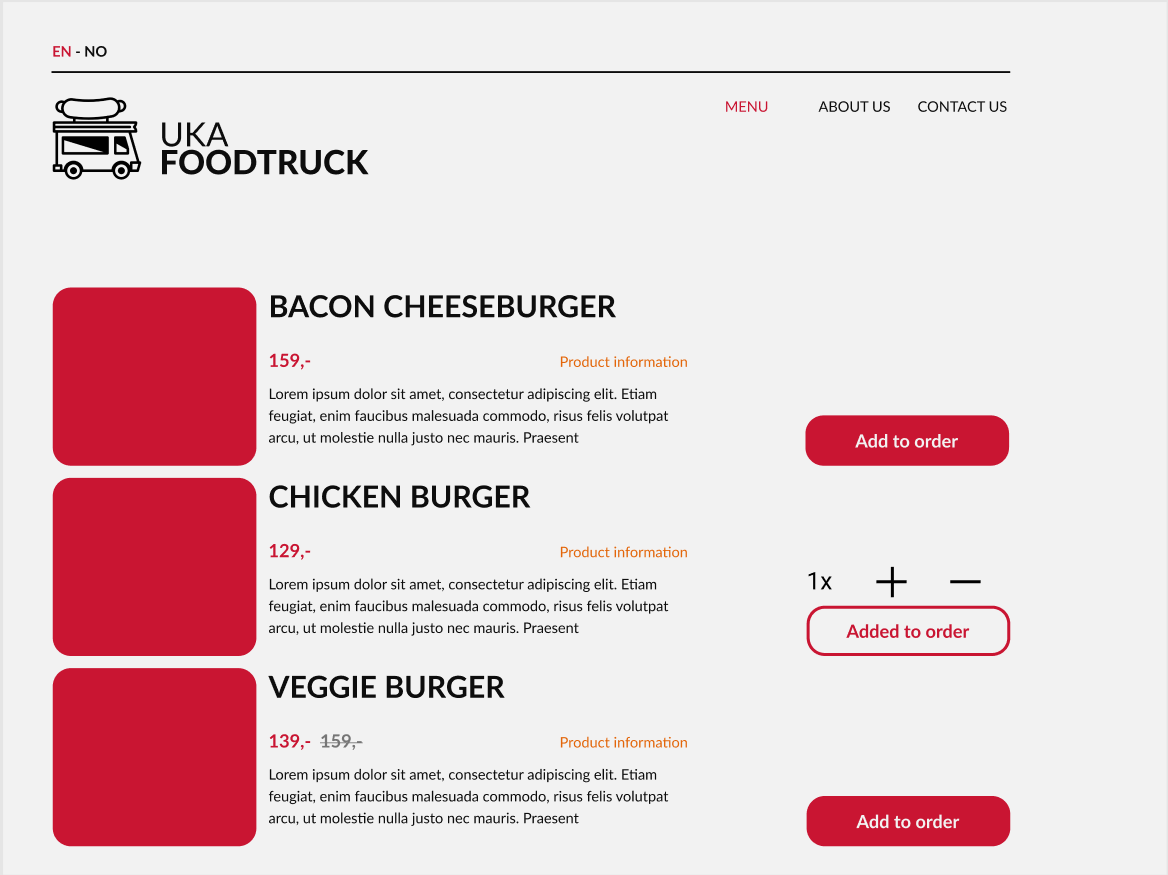
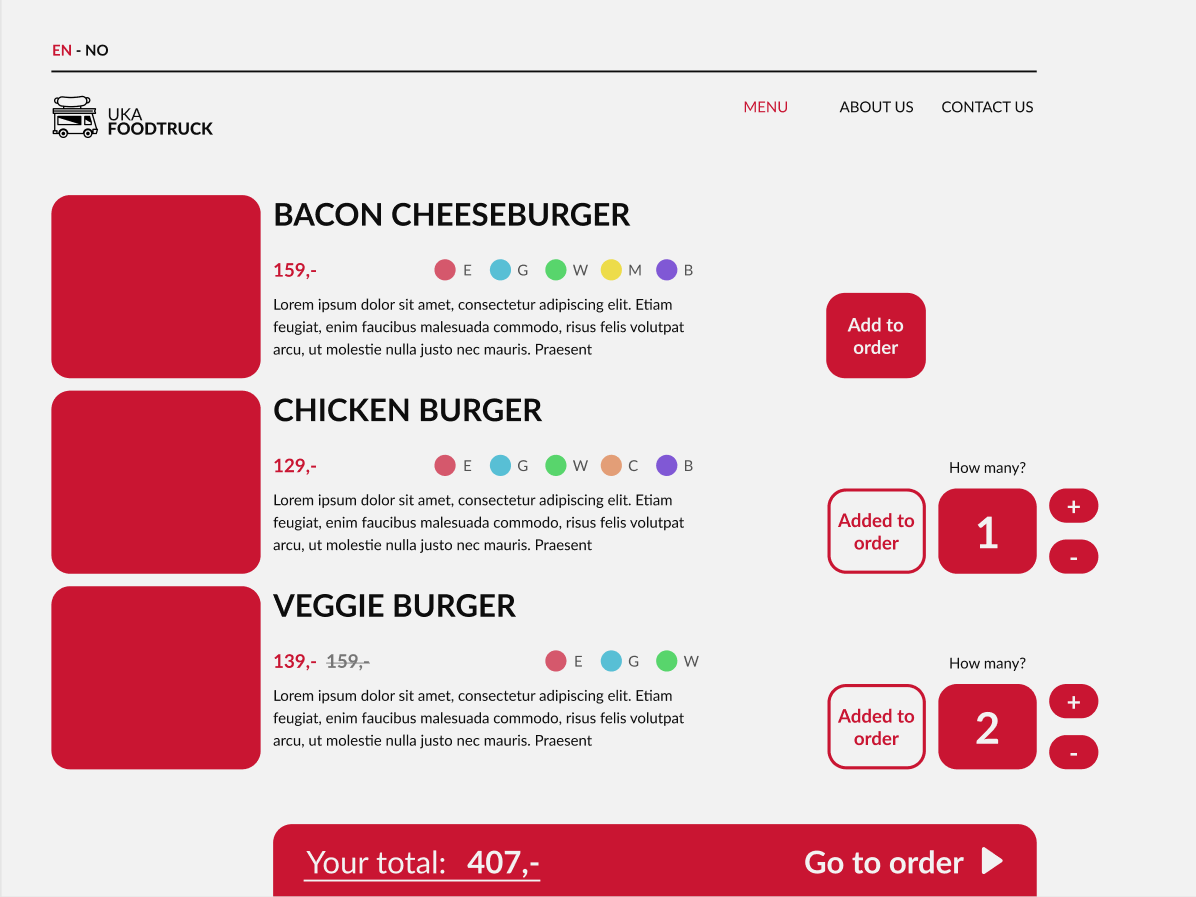
Add more information to order confirmation, add receipt page and images to content

Changed region(s): [[0.0308, 0.0309, 0.8938, 1.0], [0.6781, 0.4629, 0.9247, 0.864], [0.6781, 0.3086, 0.8014, 0.432]]

diff --git a/Documents/P2_design_8.html b/Documents/P2_design_8.html
@@ -47,11 +47,11 @@
         menu site as it is a site to confirm your order.
     </p>
     <p>
-        This structure makes sense for our website because we have chosen to focus on an easy navigation. 
+        This structure makes sense for our website because we have chosen to focus on an easy navigation.
         We think the ability to reach every page with one click fits our users because they, as mention before, might be
-        a bit intoxicated, and some might click on the wrong buttons. 
+        a bit intoxicated, and some might click on the wrong buttons.
     </p>
-    <img src="../images/Navigation structure.png" alt="Navigation structure" />
+    <img src="../images/Navigation structure.png" alt="Navigation structure"/>
 </section>
 
 <section>
@@ -71,74 +71,128 @@
             <br><br>
             To the right of all this will be a dynamic display showing if the food truck is currently open or not. This
             will change given the time of day, comparing the current time to the opening hours. Finally, a highlight
-            from the menu will be displayed with a small picture and its description. Clicking this section will take the
-            user over to the menu page.
+            from the menu will be displayed with a small picture and its description. Clicking this section will take
+            the user over to the menu page.
         </p>
+        <img src="../images/Home.png" alt="Home page"/>
     </div>
     <div>
         <h3>Menu</h3>
         <p>
             This page will contain a list of all the items on the menu, what they are, what they look like, what they
             contain and what they cost. The page will also contain buttons for each item to add or remove them from your
-            order. This page fulfills the goal of allowing users to place orders through the website.
+            order and show how many you have selected. This page fulfills the goal of allowing users to place orders
+            through the website.
             <br><br>
             The unique design decisions for this page are going to be in regard to how we present the menu items. As
             shown on the image below, we plan on having a small image for each item, with the name, price, a short
-            description and a hypertext to click for a modal with more details about the product to the side of the
-            image. On lager devices the option to add and remove items from the order will be on the right-hand side of
-            the item details, while on smaller devices this will be below.
+            description and a list of allergy risks for this item to the side of the image. On lager devices the option
+            to add and remove items from the order will be on the right-hand side of the item details, while on smaller
+            devices this will be below.
         </p>
         <img src="../images/Menu.png" alt="Menu page"/>
     </div>
     <div>
         <h3>Order confirmation</h3>
         <p>
-            This page will contain a simplified list of the selected items, the amount and price. The page will also
-            contain buttons for each item to add or remove them from your order as well as a field to add a comment to
-            the order.
+            This page will contain a simplified list of the selected items, with the selected amount and price. The page
+            will also contain buttons for each item to increase or decrease the amount of them for your order as well as
+            a field to insert your name and potentially add a comment to the order.
             <br><br>
-
+            As shown on the image the simplified list will contain a smaller image, the name of the item, allergies and
+            price. For a cohesive design we will use the same buttons to increase or decrease the amount of each item.
+            The two textfields will be fairly basic, with a short description for the input we want in each field and
+            the field for the name being smaller than for the comment.
         </p>
-        <img src="../images/Order%20confirmation.png" alt="Menu page"/>
+        <img src="../images/Order%20confirmation.png" alt="Order confirmation"/>
+    </div>
+    <div>
+        <h3>Receipt</h3>
+        <p>
+            This page will contain the same simplified list of the selected items, however the buttons to increase or
+            decrease the amount of each item will of course not be present as this page shows the order that was
+            completed. The comment sent on the order confirmation page will also be shown.
+        </p>
+        <img src="../images/Receipt.png" alt="Receipt"/>
     </div>
     <div>
         <h3>About Us</h3>
         <p>
-            The about page will contain information about the Food Truck of UKA-21. This information will be displayed in a
+            The about page will contain information about the Food Truck of UKA-21. This information will be displayed
+            in a
             reader friendly manner, with multiple paragraphs and padding on the sides. Questions to the side of the
-            paragraphs will indicate what information is given. Pictures displaying the food truck and its employees will be
-            displayed side by side in a small format as seen on the figure below. When the user clicks on the images the image
+            paragraphs will indicate what information is given. Pictures displaying the food truck and its employees
+            will be
+            displayed side by side in a small format as seen on the figure below. When the user clicks on the images the
+            image
             will become larger and take up most of the screen, dimming the rest of the page in the background.
         </p>
+        <img src="../images/About%20us.png" alt="About us page"/>
     </div>
     <div>
         <h3>Contact us</h3>
         <p>
-            The contact us page will contain two distinct parts. The first one is a form for giving feedback to the food truck.
-            Here, users will fill in their information and write what the feedback is about and finally their message. We will
+            The contact us page will contain two distinct parts. The first one is a form for giving feedback to the food
+            truck.
+            Here, users will fill in their information and write what the feedback is about and finally their message.
+            We will
             check that all the fields are filled out before the user then can submit the form.
             <br><br>
-            The second part is a map displaying the location of the food truck at a given scale. When the user clicks on the
-            map it will open a new tab and take them to the Google Maps page with the location selected for navigation. This will
+            The second part is a map displaying the location of the food truck at a given scale. When the user clicks on
+            the
+            map it will open a new tab and take them to the Google Maps page with the location selected for navigation.
+            This will
             make it easy for the user to get an instant location and a route to navigate to the food truck.
         </p>
+        <img src="../images/Contact%20us.png" alt="Contact us page"/>
     </div>
 </section>
 
 <section>
     <h2>Minimum Requirements</h2>
     <ul>
-        <li>Auto navbar/footer<ul><li>This will fill in the navbar and footer on every HTML page</li></ul></li>
-        <li>Check if FoodTruck is open<ul><li>This will display different images on the homepage by comparing the current to the
-            opening hours of the foodtruck</li></ul></li>
-        <li>Language function<ul><li>Will switch the language on the page between English and Norwegian</li></ul></li>
-        <li>Increase decrease menu item selection<ul><li>A simple counter to select the desired amount of a menu item</li></ul></li>
-        <li>Send order to confirm order page<ul><li>Here we will store the order in text code and include that in the url for the
-            confirm order page</li></ul></li>
-        <li>Read order on confirm order page<ul><li>Exstracts the text code from the url and displays the items that were selected</li></ul></li>
-        <li>Contact Us<ul><li>This function will check if the user has filled out all of the text fields, then display a confirmation
-            message and clear the fields.
-        </li></ul></li>
+        <li>Auto navbar/footer
+            <ul>
+                <li>This will fill in the navbar and footer on every HTML page</li>
+            </ul>
+        </li>
+        <li>Check if FoodTruck is open
+            <ul>
+                <li>This will display different images on the homepage by comparing the current to the
+                    opening hours of the foodtruck
+                </li>
+            </ul>
+        </li>
+        <li>Language function
+            <ul>
+                <li>Will switch the language on the page between English and Norwegian</li>
+            </ul>
+        </li>
+        <li>Increase decrease menu item selection
+            <ul>
+                <li>A simple counter to select the desired amount of a menu item</li>
+            </ul>
+        </li>
+        <li>Send order to confirm order page
+            <ul>
+                <li>Here we will store the order in text code and include that in the url for the
+                    confirm order page
+                </li>
+            </ul>
+        </li>
+        <li>Read order on confirm order page
+            <ul>
+                <li>Exstracts the text code from the url and displays the items that were selected</li>
+            </ul>
+        </li>
+        <li>Contact Us
+            <ul>
+                <li>This function will check if the user has filled out all of the text fields, then display a
+                    confirmation
+                    message and clear the fields.
+                </li>
+            </ul>
+        </li>
     </ul>
 </section>
 
@@ -149,6 +203,7 @@
         <li>homepage.html</li>
         <li>menu.html</li>
         <li>order.html</li>
+        <li>receipt.html</li>
         <li>about.html</li>
         <li>contact_us.html</li>
         <li>images/</li>
@@ -175,7 +230,7 @@
 
     <table>
         <tr>
-            <th> Filename/ function </th>
+            <th> Filename/ function</th>
             <th> Description</th>
             <th> In charge</th>
             <th> Deadline</th>
@@ -194,45 +249,52 @@
         </tr>
         <tr>
             <td> order.html</td>
-            <td> See description under content, order. </td>
+            <td> See description under content, order.</td>
+            <td></td>
+            <td></td>
+        </tr>
+        <tr>
+            <td> receipt.html</td>
+            <td> See description under content, receipt.</td>
             <td></td>
             <td></td>
         </tr>
         <tr>
             <td> about.html</td>
-            <td> See description under content, about. </td>
+            <td> See description under content, about.</td>
             <td></td>
             <td></td>
         </tr>
         <tr>
             <td> contact_us.html</td>
-            <td> See description under content, contact us. </td>
+            <td> See description under content, contact us.</td>
             <td></td>
             <td></td>
         </tr>
         <tr>
-            <td> main.js </td>
-            <td> Auto navbar and footer, 
-            check if the food truck is open (homepage),
-            contact us form (contact us page)</td>
+            <td> main.js</td>
+            <td> Auto navbar and footer,
+                check if the food truck is open (homepage),
+                contact us form (contact us page)
+            </td>
             <td></td>
             <td></td>
         </tr>
         <tr>
-            <td> Ingrease/ decrease menu item section </td>
+            <td> Ingrease/ decrease menu item section</td>
             <td></td>
             <td></td>
             <td></td>
         </tr>
         <tr>
-            <td> Send order to confirm order page </td>
-            <td> Save information about order (type of food, amount). </td>
+            <td> Send order to confirm order page</td>
+            <td> Save information about order (type of food, amount).</td>
             <td></td>
             <td></td>
         </tr>
         <tr>
-            <td> Read order to confirm order page </td>
-            <td> Get information about order. </td>
+            <td> Read order to confirm order page</td>
+            <td> Get information about order.</td>
             <td></td>
             <td></td>
         </tr>
